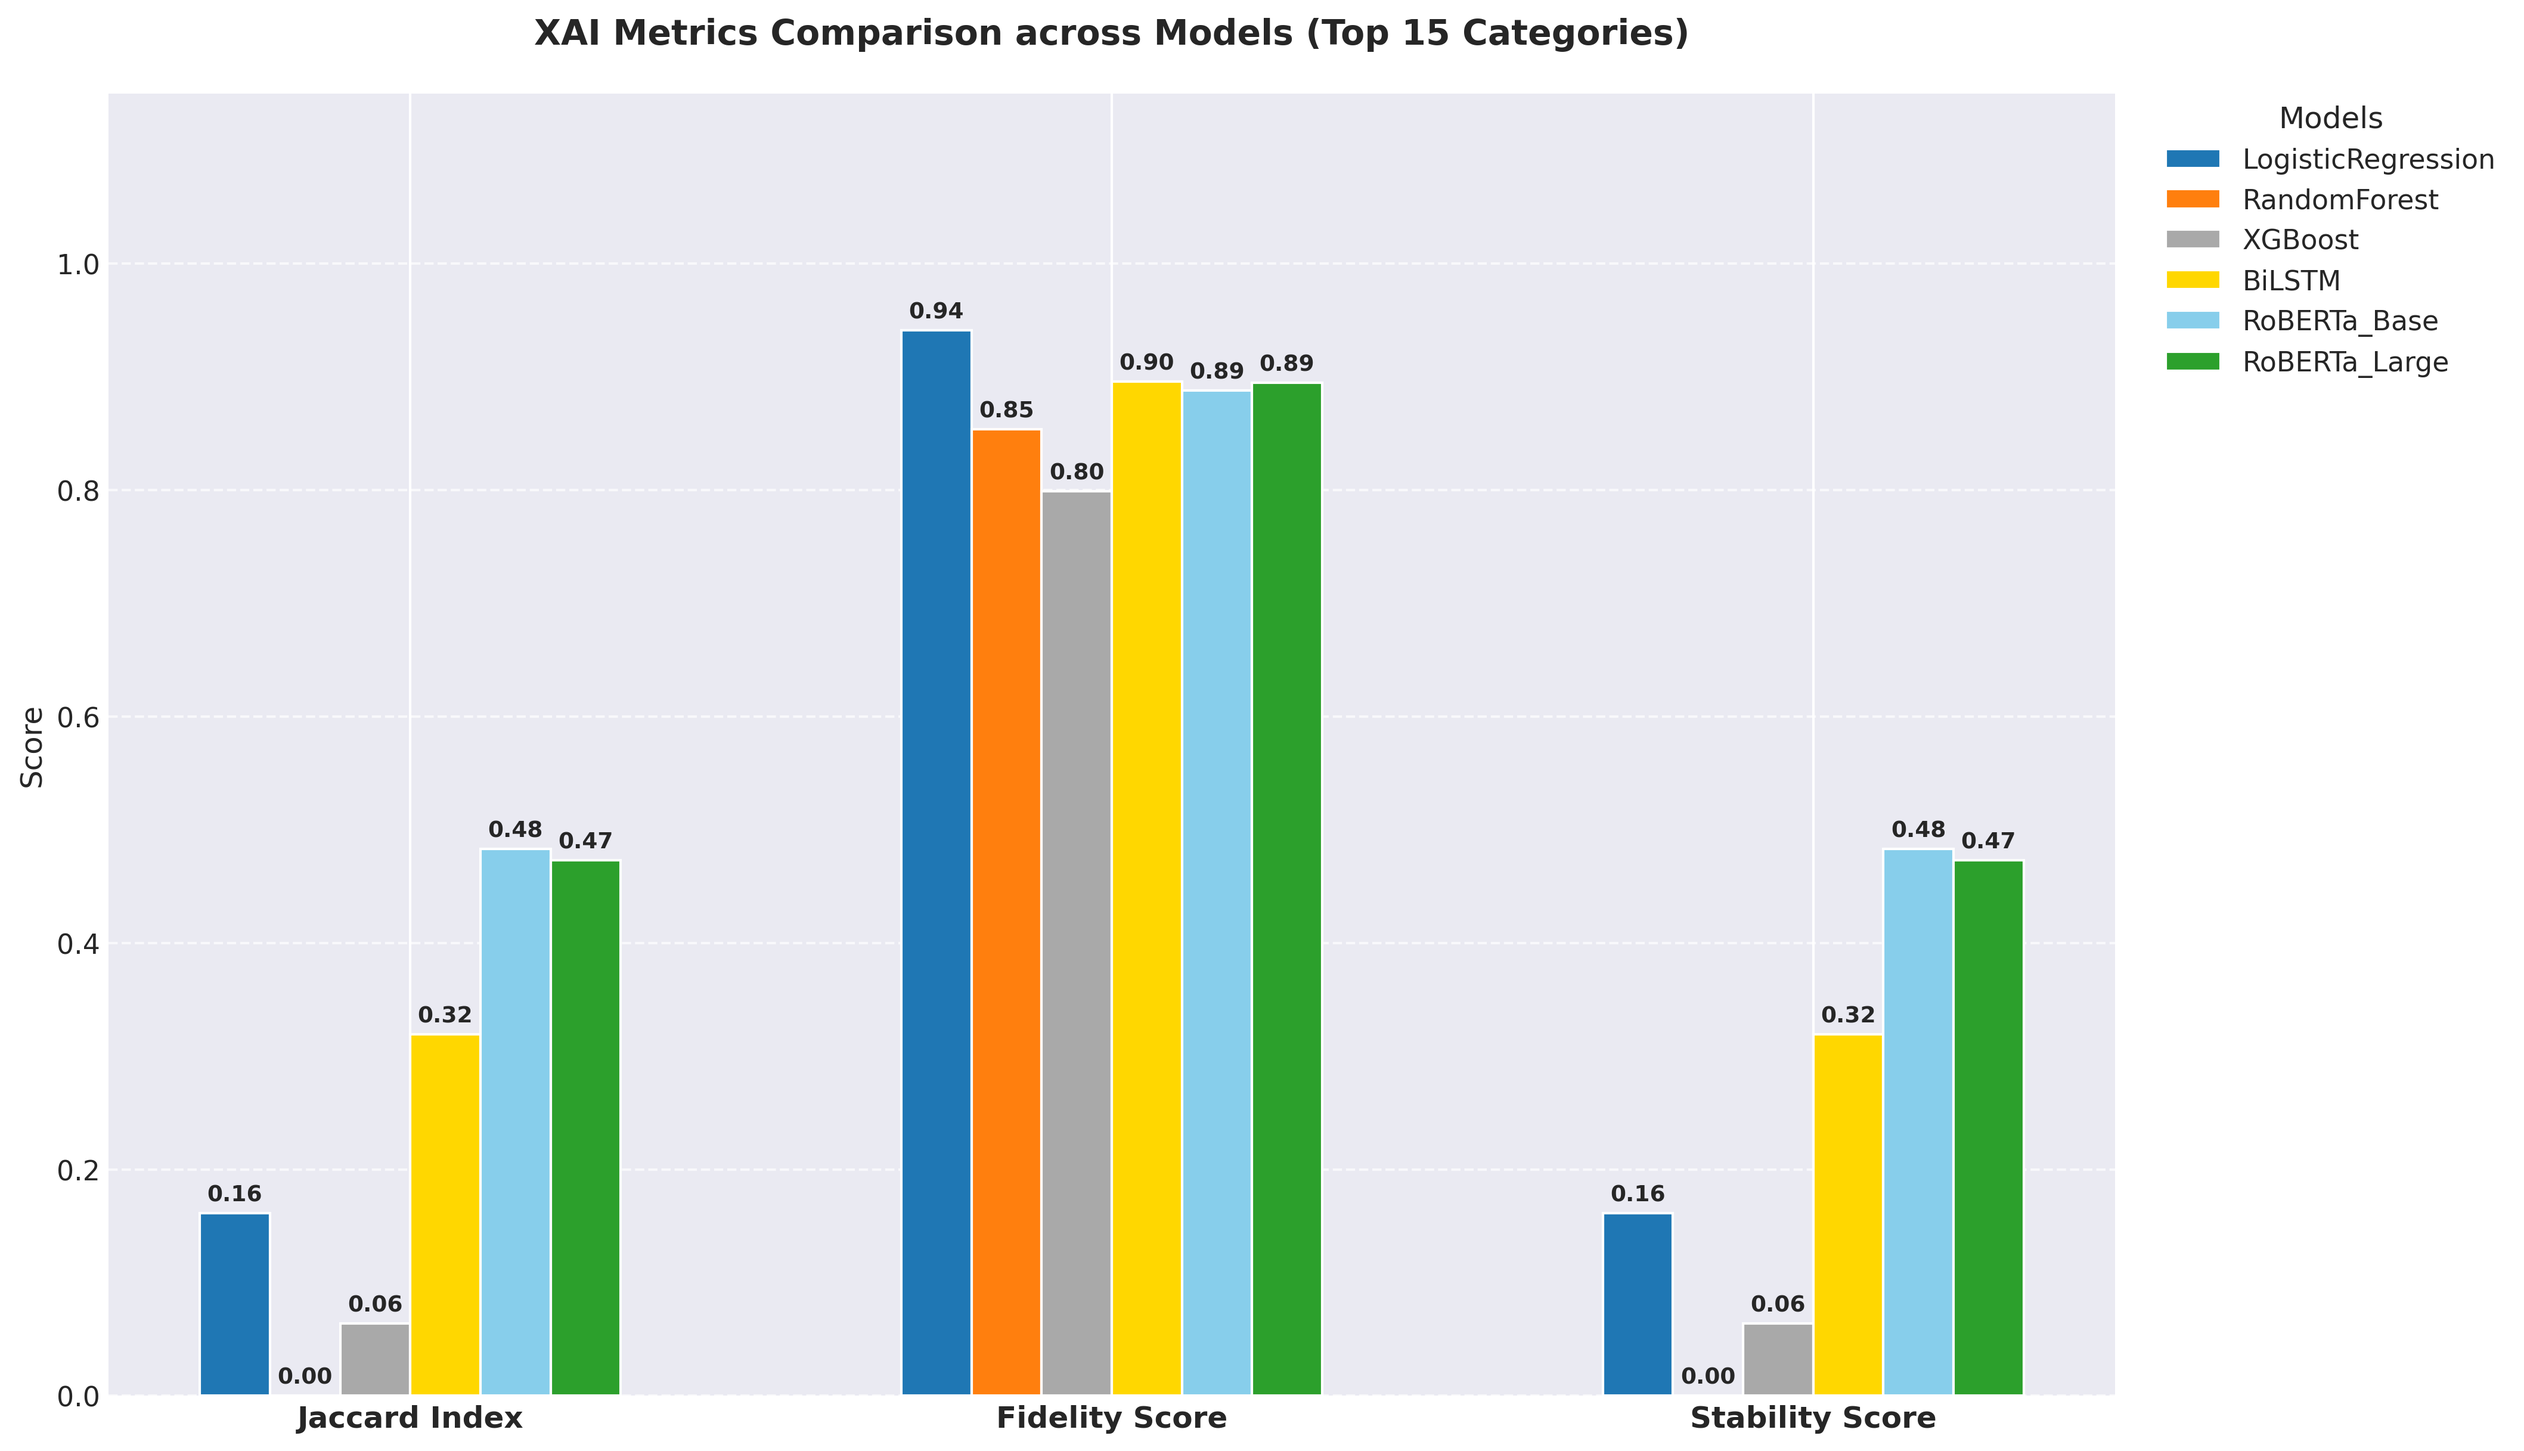
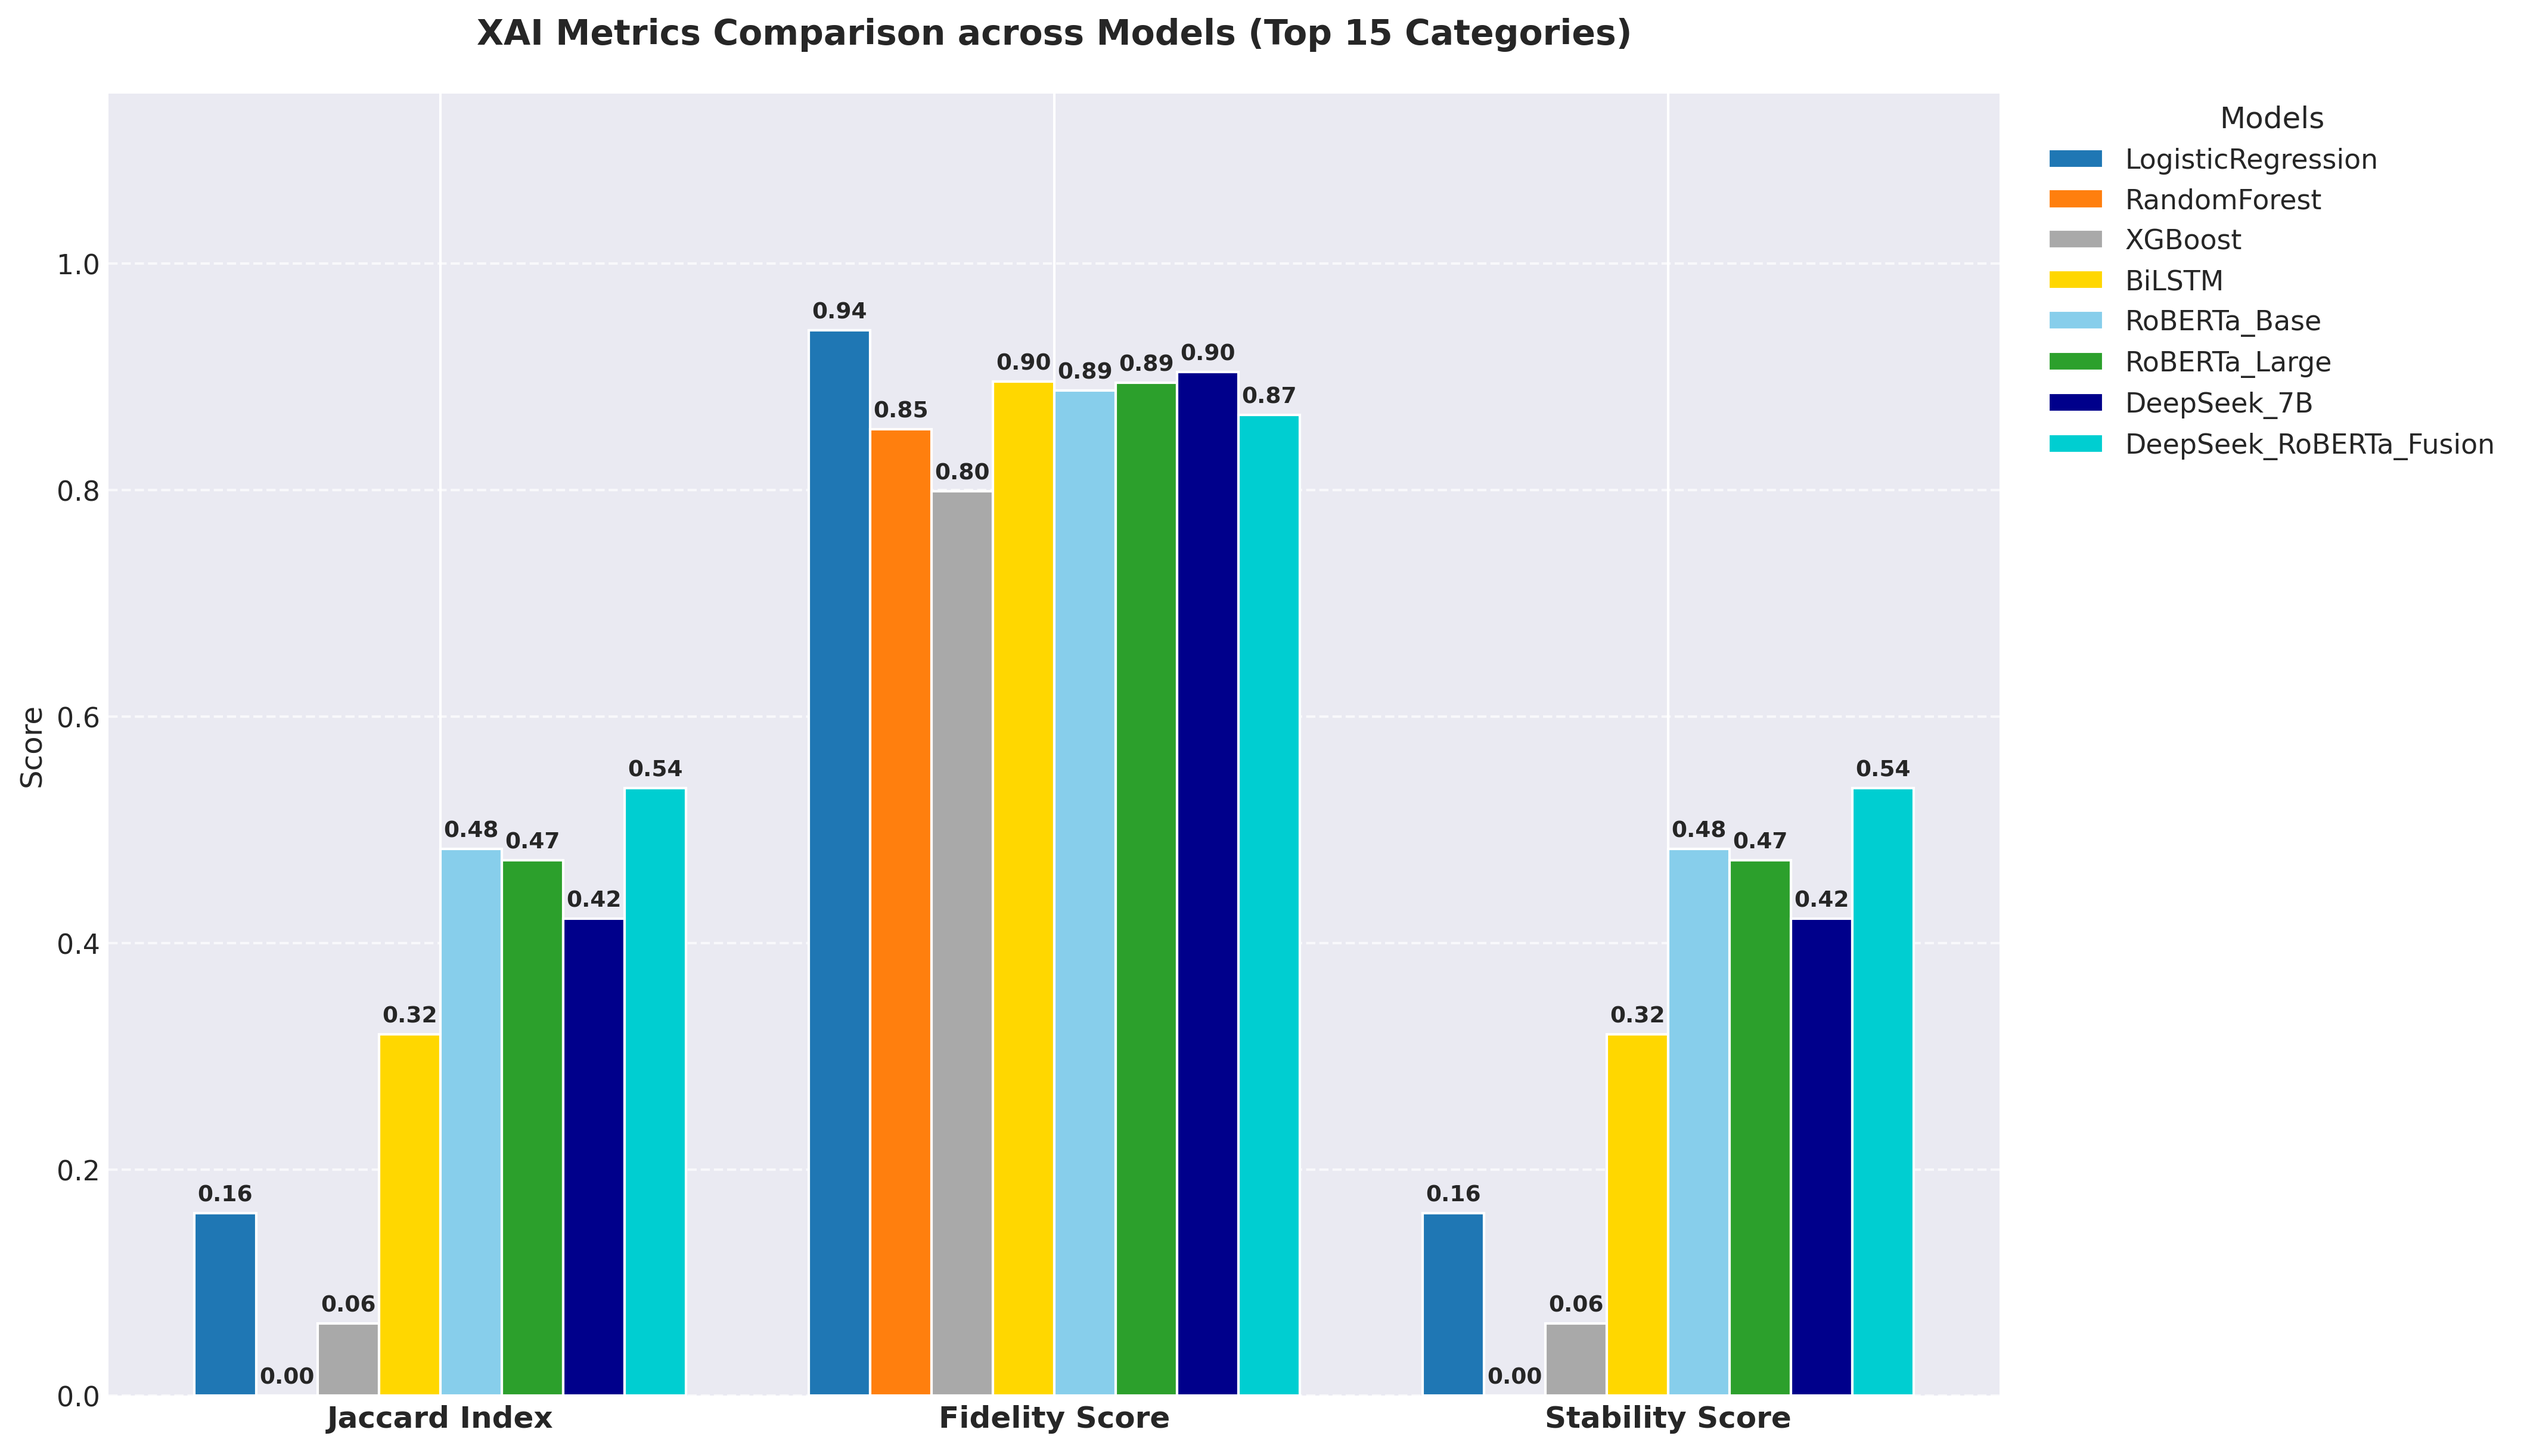
Overall explainability updated

diff --git a/web_services_classification/src/explainability/deepseek_explainability.py b/web_services_classification/src/explainability/deepseek_explainability.py
@@ -85,13 +85,13 @@ class DeepSeekExplainability:
         }
         self.global_metrics_storage = []
         self.target_categories = TARGET_CATEGORIES  # from utils
-        self.category_tokens   = {cat: [] for cat in self.target_categories}
+        self.category_tokens   = defaultdict(list)
 
         # Evidence trackers (kept for evidence CSVs)
         self.evidence_data = {
             'Global_SHAP': [], 'Global_LIME': [],
-            'Local_SHAP':  {cat: [] for cat in self.target_categories},
-            'Local_LIME':  {cat: [] for cat in self.target_categories},
+            'Local_SHAP':  defaultdict(list),
+            'Local_LIME':  defaultdict(list),
         }
 
         self.base_result_dir = RESULTS_CONFIG['deepseek_category_paths'][n_categories]
@@ -303,7 +303,7 @@ class DeepSeekExplainability:
                 self.global_metrics_storage.append(mets)
 
             except Exception as e:
-                logger.warning(f"Failed sample {i}: {e}")
+                logger.warning(f"Failed sample {i} ({category_name}): {type(e).__name__}: {e}")
 
         self.save_consolidated_tokens()
         self.save_evidence_csvs()

diff --git a/web_services_classification/src/explainability/fusion_explainability.py b/web_services_classification/src/explainability/fusion_explainability.py
@@ -155,7 +155,7 @@ class FusionExplainability:
 
         self.global_metrics_storage = []
         self.target_categories      = TARGET_CATEGORIES  # from utils
-        self.category_tokens        = {cat: [] for cat in self.target_categories}
+        self.category_tokens        = defaultdict(list)
 
         self.base_result_dir = RESULTS_CONFIG['fusion_category_paths'][n_categories]
         self.explain_dir     = self.base_result_dir / "explainability"
@@ -337,7 +337,7 @@ class FusionExplainability:
                 self.global_metrics_storage.append(mets)
 
             except Exception as e:
-                logger.warning(f"Failed sample {i}: {e}")
+                logger.warning(f"Failed sample {i} ({category_name}): {type(e).__name__}: {e}")
 
     def save_consolidated_tokens(self):
         rows = []
